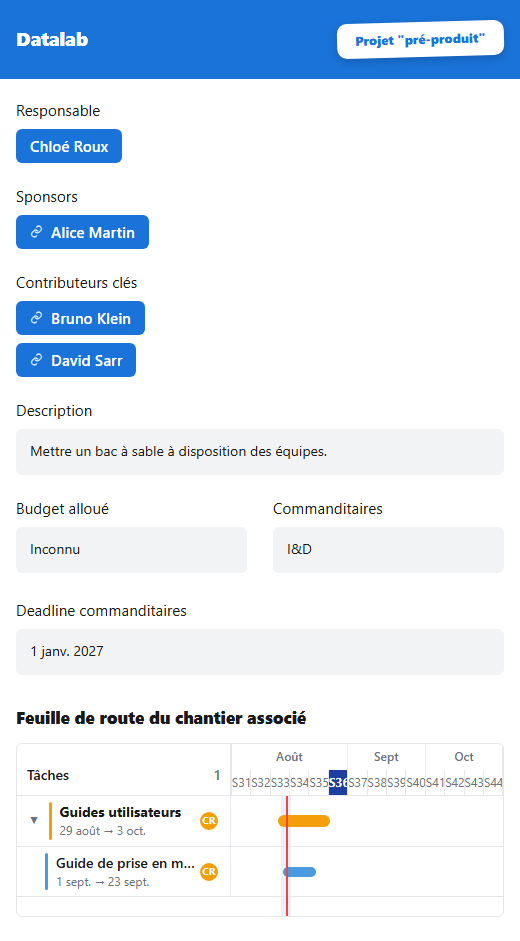
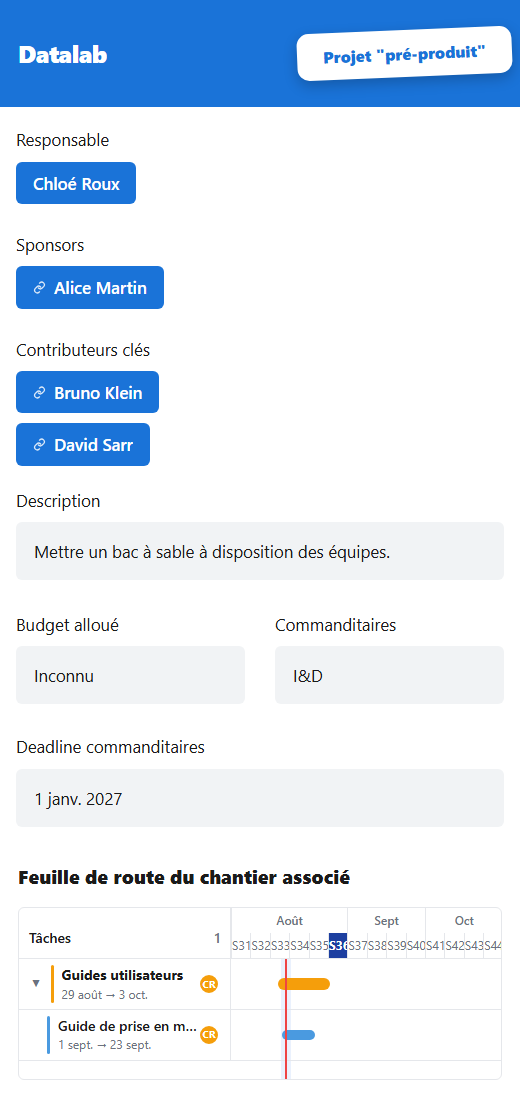
feat(fiche): aligner l echelle typographique sur la maquette
Titre, libelles, pastilles et encadres repris a la taille de la maquette,
espacements elargis, etiquette de type posee de travers sur le bandeau.

Changed region(s): [[0.0, 0.0, 1.0, 0.9862]]

diff --git a/projects/tasks_app/fiche.html b/projects/tasks_app/fiche.html
@@ -32,38 +32,42 @@
         .fiche { padding: 0 0 24px; }
 
         .fiche-entete {
-            background: var(--accent); color: #fff; padding: 22px 28px;
+            background: var(--accent); color: #fff; padding: 30px 34px;
             display: flex; align-items: center; gap: 20px; flex-wrap: wrap;
         }
-        .fiche-titre { margin: 0; font-size: clamp(1.2rem, 2.6vw, 2rem); font-weight: 800; letter-spacing: -0.01em; }
+        .fiche-titre { margin: 0; font-size: clamp(1.5rem, 3vw, 2.5rem); font-weight: 800; letter-spacing: -0.015em; }
+        /* La maquette pose le type comme une etiquette collee sur le bandeau, legerement de
+           travers et debordant sur sa droite. */
         .fiche-type {
-            margin-left: auto; background: #fff; color: var(--accent); border-radius: 10px;
-            padding: 8px 18px; font-weight: 800; font-size: clamp(0.8rem, 1.3vw, 1.05rem);
-            white-space: nowrap; transform: rotate(-1.5deg); box-shadow: 0 3px 8px rgba(0, 0, 0, 0.18);
+            margin-left: auto; margin-right: -10px; background: #fff; color: var(--accent);
+            border-radius: 12px; padding: 12px 26px; font-weight: 800;
+            font-size: clamp(1rem, 1.6vw, 1.45rem); white-space: nowrap;
+            transform: rotate(-2.4deg); box-shadow: 0 5px 14px rgba(0, 0, 0, 0.22);
         }
 
-        .fiche-cadrage { display: flex; gap: 40px; flex-wrap: wrap; padding: 26px 28px 8px; }
-        .fiche-colonne { display: flex; flex-direction: column; gap: 22px; min-width: 220px; flex: 1; }
+        .fiche-cadrage { display: flex; gap: 48px; flex-wrap: wrap; padding: 32px 34px 10px; }
+        .fiche-colonne { display: flex; flex-direction: column; gap: 28px; min-width: 240px; flex: 1; }
         .fiche-colonne.large { flex: 2.6; min-width: 300px; }
-        .fiche-trio { display: flex; gap: 26px; flex-wrap: wrap; }
+        .fiche-trio { display: flex; gap: 30px; flex-wrap: wrap; margin-top: 4px; }
         .fiche-trio .fiche-bloc { flex: 1; min-width: 160px; }
-        .fiche-label { color: var(--texte); font-size: 0.95rem; margin-bottom: 8px; }
-        .fiche-valeur { display: flex; flex-direction: column; align-items: flex-start; gap: 8px; }
+        .fiche-label { color: var(--texte); font-size: 1.05rem; margin-bottom: 10px; }
+        .fiche-valeur { display: flex; flex-direction: column; align-items: flex-start; gap: 10px; }
         /* Les zones de saisie du metier ont un fond, les listes de personnes n'en ont pas. */
         .bloc-description .fiche-valeur, .fiche-trio .fiche-valeur {
-            background: var(--fond-doux); border-radius: var(--rayon); padding: 12px 14px;
-            width: 100%; min-height: 46px; display: block; white-space: pre-wrap;
+            background: var(--fond-doux); border-radius: var(--rayon); padding: 16px 18px;
+            width: 100%; min-height: 56px; display: block; white-space: pre-wrap;
+            font-size: 1.05rem; line-height: 1.55;
         }
         .fiche-valeur .vide { color: var(--texte-doux); font-style: italic; }
 
         .fiche-personne {
             display: inline-flex; align-items: center; gap: 8px; background: var(--accent);
-            color: #fff; border-radius: var(--rayon); padding: 6px 14px; font-weight: 600; font-size: 0.95rem;
+            color: #fff; border-radius: var(--rayon); padding: 9px 17px; font-weight: 600; font-size: 1.05rem;
         }
         .fiche-lien { opacity: 0.85; flex: none; }
 
-        .fiche-route { padding: 26px 28px 0; }
-        .fiche-route h2 { font-size: 1.05rem; font-weight: 800; margin: 0 0 14px; }
+        .fiche-route { padding: 32px 34px 0; }
+        .fiche-route h2 { font-size: 1.2rem; font-weight: 800; margin: 0 0 16px; }
         .fiche-grille {
             border: 1px solid var(--trait); border-radius: var(--rayon); overflow: hidden;
             --colonne: clamp(200px, 32%, 420px);
@@ -128,7 +132,7 @@
 
         @media (max-width: 760px) {
             .fiche-cadrage { flex-direction: column; gap: 22px; padding: 20px 16px 4px; }
-            .fiche-entete, .fiche-route { padding-left: 16px; padding-right: 16px; }
+            .fiche-entete, .fiche-route { padding-left: 18px; padding-right: 18px; }
             .fiche-grille { --colonne: clamp(140px, 44%, 240px); }
             .fiche-progression, .fiche-filles { display: none; }
         }

diff --git a/published/taskflow/fiche/index.html b/published/taskflow/fiche/index.html
@@ -32,38 +32,42 @@
         .fiche { padding: 0 0 24px; }
 
         .fiche-entete {
-            background: var(--accent); color: #fff; padding: 22px 28px;
+            background: var(--accent); color: #fff; padding: 30px 34px;
             display: flex; align-items: center; gap: 20px; flex-wrap: wrap;
         }
-        .fiche-titre { margin: 0; font-size: clamp(1.2rem, 2.6vw, 2rem); font-weight: 800; letter-spacing: -0.01em; }
+        .fiche-titre { margin: 0; font-size: clamp(1.5rem, 3vw, 2.5rem); font-weight: 800; letter-spacing: -0.015em; }
+        /* La maquette pose le type comme une etiquette collee sur le bandeau, legerement de
+           travers et debordant sur sa droite. */
         .fiche-type {
-            margin-left: auto; background: #fff; color: var(--accent); border-radius: 10px;
-            padding: 8px 18px; font-weight: 800; font-size: clamp(0.8rem, 1.3vw, 1.05rem);
-            white-space: nowrap; transform: rotate(-1.5deg); box-shadow: 0 3px 8px rgba(0, 0, 0, 0.18);
+            margin-left: auto; margin-right: -10px; background: #fff; color: var(--accent);
+            border-radius: 12px; padding: 12px 26px; font-weight: 800;
+            font-size: clamp(1rem, 1.6vw, 1.45rem); white-space: nowrap;
+            transform: rotate(-2.4deg); box-shadow: 0 5px 14px rgba(0, 0, 0, 0.22);
         }
 
-        .fiche-cadrage { display: flex; gap: 40px; flex-wrap: wrap; padding: 26px 28px 8px; }
-        .fiche-colonne { display: flex; flex-direction: column; gap: 22px; min-width: 220px; flex: 1; }
+        .fiche-cadrage { display: flex; gap: 48px; flex-wrap: wrap; padding: 32px 34px 10px; }
+        .fiche-colonne { display: flex; flex-direction: column; gap: 28px; min-width: 240px; flex: 1; }
         .fiche-colonne.large { flex: 2.6; min-width: 300px; }
-        .fiche-trio { display: flex; gap: 26px; flex-wrap: wrap; }
+        .fiche-trio { display: flex; gap: 30px; flex-wrap: wrap; margin-top: 4px; }
         .fiche-trio .fiche-bloc { flex: 1; min-width: 160px; }
-        .fiche-label { color: var(--texte); font-size: 0.95rem; margin-bottom: 8px; }
-        .fiche-valeur { display: flex; flex-direction: column; align-items: flex-start; gap: 8px; }
+        .fiche-label { color: var(--texte); font-size: 1.05rem; margin-bottom: 10px; }
+        .fiche-valeur { display: flex; flex-direction: column; align-items: flex-start; gap: 10px; }
         /* Les zones de saisie du metier ont un fond, les listes de personnes n'en ont pas. */
         .bloc-description .fiche-valeur, .fiche-trio .fiche-valeur {
-            background: var(--fond-doux); border-radius: var(--rayon); padding: 12px 14px;
-            width: 100%; min-height: 46px; display: block; white-space: pre-wrap;
+            background: var(--fond-doux); border-radius: var(--rayon); padding: 16px 18px;
+            width: 100%; min-height: 56px; display: block; white-space: pre-wrap;
+            font-size: 1.05rem; line-height: 1.55;
         }
         .fiche-valeur .vide { color: var(--texte-doux); font-style: italic; }
 
         .fiche-personne {
             display: inline-flex; align-items: center; gap: 8px; background: var(--accent);
-            color: #fff; border-radius: var(--rayon); padding: 6px 14px; font-weight: 600; font-size: 0.95rem;
+            color: #fff; border-radius: var(--rayon); padding: 9px 17px; font-weight: 600; font-size: 1.05rem;
         }
         .fiche-lien { opacity: 0.85; flex: none; }
 
-        .fiche-route { padding: 26px 28px 0; }
-        .fiche-route h2 { font-size: 1.05rem; font-weight: 800; margin: 0 0 14px; }
+        .fiche-route { padding: 32px 34px 0; }
+        .fiche-route h2 { font-size: 1.2rem; font-weight: 800; margin: 0 0 16px; }
         .fiche-grille {
             border: 1px solid var(--trait); border-radius: var(--rayon); overflow: hidden;
             --colonne: clamp(200px, 32%, 420px);
@@ -128,7 +132,7 @@
 
         @media (max-width: 760px) {
             .fiche-cadrage { flex-direction: column; gap: 22px; padding: 20px 16px 4px; }
-            .fiche-entete, .fiche-route { padding-left: 16px; padding-right: 16px; }
+            .fiche-entete, .fiche-route { padding-left: 18px; padding-right: 18px; }
             .fiche-grille { --colonne: clamp(140px, 44%, 240px); }
             .fiche-progression, .fiche-filles { display: none; }
         }
